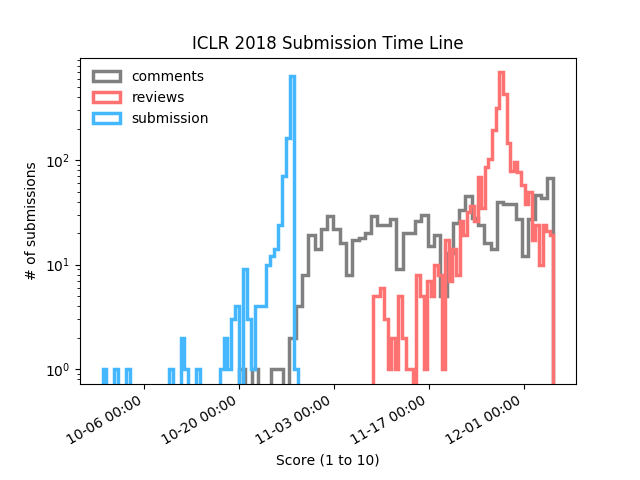
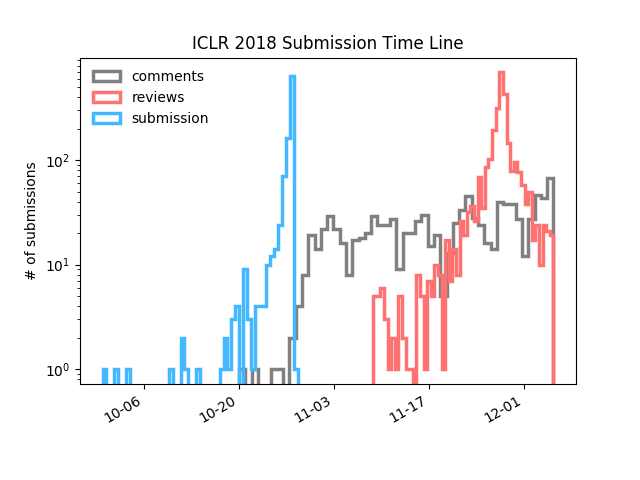
Update x-axis date format

diff --git a/analysis.py b/analysis.py
@@ -180,11 +180,10 @@ if __name__ == "__main__":
     # plt.hist(times, normed=False, alpha=1.0, bins=50,
     #          histtype='step', edgecolor='grey', linewidth=2.5, label="modification")
     ax.xaxis.set_major_locator(mdates.AutoDateLocator())
-    date_fmt = '%m-%d %H:%M'
+    date_fmt = '%m-%d'  # %H:%M'
     ax.xaxis.set_major_formatter(mdates.DateFormatter(date_fmt))
     ax.set_yscale("log", nonposy='clip')
     fig.autofmt_xdate()
-    plt.xlabel('Score (1 to 10)')
     plt.ylabel('# of submissions')
     plt.legend(loc="upper left", framealpha=1, frameon=False)
     plt.savefig(save_prefix + 'submission_timeline.png')
